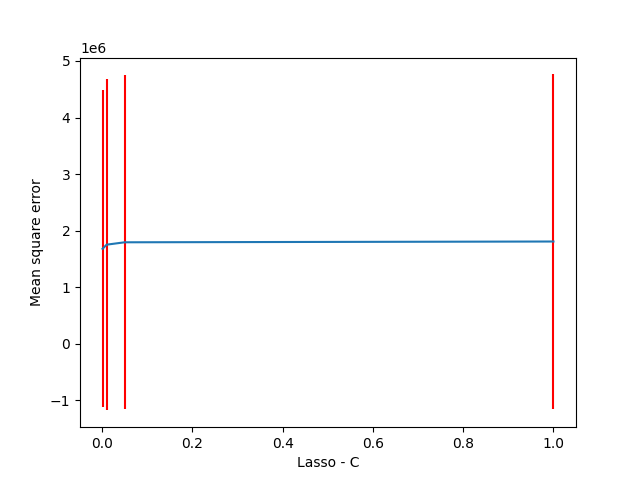
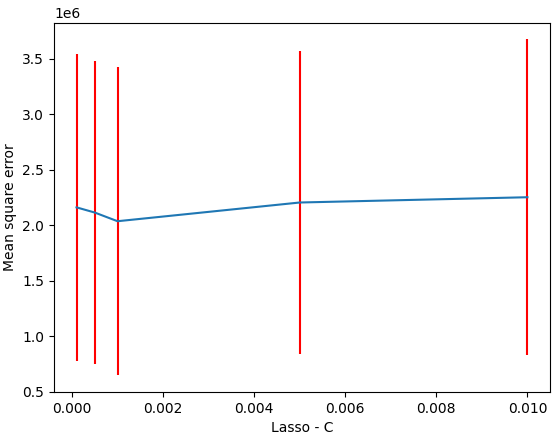
updated kcross graphs and added a model testing file

diff --git a/ModelTesting.py b/ModelTesting.py
@@ -1,0 +1,47 @@
+import numpy as np
+import pandas as pd
+import matplotlib.pyplot as plt
+
+from sklearn.linear_model import LinearRegression, Lasso, Ridge
+from sklearn.dummy import DummyRegressor
+from sklearn.metrics import mean_squared_error
+from sklearn.model_selection import train_test_split, KFold
+from sklearn.preprocessing import PolynomialFeatures
+
+data = open("DublinDataset.csv", "r")
+next(data)
+
+x = []
+y = []
+
+for line in data:
+    if line != "\n":
+        splt = line.strip().split(",")
+        x.append([int(splt[1]), int(splt[2]), int(splt[3]), int(splt[4])])
+        y.append(int(splt[0]))
+
+x_train, x_test, y_train, y_test = train_test_split(x, y, test_size=0.33, random_state=0)
+
+modelLinear = LinearRegression()
+modelLinear.fit(x_train, y_train)
+
+modelLasso = Lasso(alpha= 1 /(2 * 0.001))
+modelLasso.fit(x_train, y_train)
+
+modelRidge = Ridge(alpha= 1 /(2 * 0.0001))
+modelRidge.fit(x_train, y_train)
+
+modelBaseline = DummyRegressor(strategy="mean")
+modelBaseline.fit(x_train, y_train)
+
+y_pred = modelLinear.predict(x_train)
+print("Linear Regresion MSE = ", mean_squared_error(y_train, y_pred, squared=False))
+
+y_pred = modelLasso.predict(x_train)
+print("Lasso MSE = ", mean_squared_error(y_train, y_pred, squared=False))
+
+y_pred = modelRidge.predict(x_train)
+print("Ridge MSE = ", mean_squared_error(y_train, y_pred, squared=False))
+
+y_pred = modelBaseline.predict(x_train)
+print("Baseline MSE = ", mean_squared_error(y_train, y_pred, squared=False))

diff --git a/Modelling.py b/Modelling.py
@@ -7,7 +7,7 @@ from sklearn.metrics import mean_squared_error
 from sklearn.model_selection import train_test_split, KFold
 from sklearn.preprocessing import PolynomialFeatures
 
-data = open("Dataset.csv", "r")
+data = open("DublinDataset.csv", "r")
 next(data)
 
 x = []
@@ -24,7 +24,9 @@ y = np.array(y)
 
 mean_error = []
 std_error = []
-c_range = [0.01, 0.05, 0.1, 0.5, 1]
+c_range = [0.0001, 0.0005, 0.001, 0.005, 0.01]
+#c_range = [0.0000001, 0.0001, 0.0005, 0.001, 0.0015, 0.002]
+#c_range = [10, 100, 500, 1000, 5000, 10000]
 
 for c in c_range:
     temp = []
@@ -40,6 +42,6 @@ for c in c_range:
     std_error.append(np.array(temp).std())
 
 plt.errorbar(c_range, mean_error, yerr=std_error, ecolor="red")
-plt.xlabel("Ridge - C")
+plt.xlabel("Lasso - C")
 plt.ylabel("Mean square error")
 plt.show()
